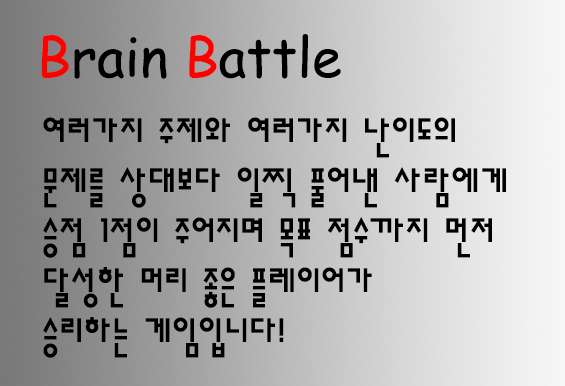
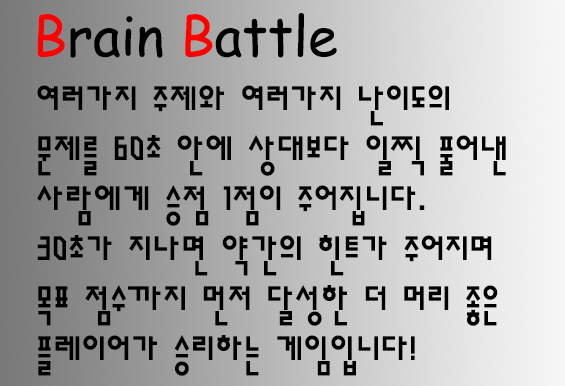
1122
채팅창 수정 및 힌트 구현 및 힌트표시할 이미지 수정

Changed region(s): [[0.0602, 0.0311, 0.9027, 0.9948]]

diff --git a/src/thread/TimerThread.java b/src/thread/TimerThread.java
@@ -17,6 +17,7 @@ public class TimerThread extends Thread{
 			"T4.png", "T3.png", "T2.png", "T1.png"};
 	private static boolean timerStop = false;
 	private boolean timerEnd = false;
+	private boolean hint = false;
 	
 	public TimerThread(MainFrame mainFrame) {
 		this.mainFrame = mainFrame;
@@ -32,6 +33,9 @@ public class TimerThread extends Thread{
 				if(i==timer.length) {
 					mainFrame.getGame().setTurnEnd(true);
 					break;
+				}
+				if(i == 30) {
+					hint = true;
 				}
 				mainFrame.getGame().getTimer().setIcon(new ImageIcon(this.getClass().getClassLoader().getResource(timer[i])));
 				Thread.sleep(1000);
@@ -49,6 +53,12 @@ public class TimerThread extends Thread{
 	public void killTimer() {
 		this.timerEnd = true;
 		setTimerStop(true);
+	}
+	public boolean getHint() {
+		return hint;
+	}
+	public void setHint(boolean hint) {
+		this.hint = hint;
 	}
 }
 
